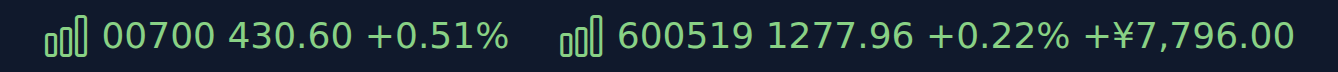
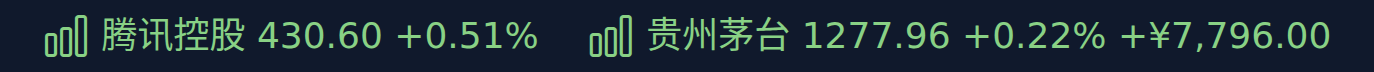
feat(statusbar): label the item with the instrument name

Changed region(s): [[0.0306, 0.1944, 0.9806, 0.8056]]

diff --git a/src/test/format.test.ts b/src/test/format.test.ts
@@ -62,8 +62,14 @@ describe('directionOf', () => {
 });
 
 describe('statusBarText', () => {
-  test('shows code, price and change percent', () => {
+  test('falls back to the code when the quote carries no name', () => {
     expect(statusBarText({ instrument, quote: quote() })).toBe('$(graph) 600519 1277.96 +0.22%');
+  });
+
+  test('shows the provider name instead of the code', () => {
+    expect(statusBarText({ instrument, quote: quote({ name: '贵州茅台' }) })).toBe(
+      '$(graph) 贵州茅台 1277.96 +0.22%',
+    );
   });
 
   test('marks stale quotes with a warning icon', () => {
@@ -85,6 +91,7 @@ describe('statusBarText', () => {
 
     expect(statusBarText({ instrument, quote: halted })).toBe('$(graph) 600519 -- Halted');
     expect(statusBarText({ instrument, quote: halted, labels: { halted: '停牌' } })).toBe('$(graph) 600519 -- 停牌');
+    expect(statusBarText({ instrument, quote: { ...halted, name: '贵州茅台' } })).toBe('$(graph) 贵州茅台 -- Halted');
   });
 });
 

diff --git a/src/format.ts b/src/format.ts
@@ -74,13 +74,15 @@ export function statusBarText(args: {
 }): string {
   const { instrument, quote, stale, profit, labels } = args;
   const icon = stale ? '$(warning)' : '$(graph)';
+  // The provider name is friendlier than the code; the code is the fallback until a quote arrives.
+  const label = quote?.name ?? instrument.code;
   if (!quote) {
-    return `${icon} ${instrument.code} --`;
+    return `${icon} ${label} --`;
   }
   if (quote.halted) {
-    return `${icon} ${instrument.code} -- ${labels?.halted ?? 'Halted'}`;
+    return `${icon} ${label} -- ${labels?.halted ?? 'Halted'}`;
   }
-  const head = `${icon} ${instrument.code} ${formatPrice(quote.price, quote.market)} ${formatChangePercent(quote.changePercent)}`;
+  const head = `${icon} ${label} ${formatPrice(quote.price, quote.market)} ${formatChangePercent(quote.changePercent)}`;
   return profit ? `${head} ${profit}` : head;
 }
 

diff --git a/test/smoke/extension.test.ts b/test/smoke/extension.test.ts
@@ -45,11 +45,15 @@ suite('CodingView in the extension host', () => {
   suiteSetup(async () => {
     await setSetting('watchlist', []);
     await setSetting('pinnedSymbol', '');
+    // Keep the suite offline and deterministic: this provider serves crypto only, so the stock
+    // symbols below never get a live quote and always render their code.
+    await setSetting('provider', 'binance-vision');
   });
 
   suiteTeardown(async () => {
     await setSetting('watchlist', []);
     await setSetting('pinnedSymbol', '');
+    await setSetting('provider', undefined);
   });
 
   test('activates', async () => {

diff --git a/src/statusBar.ts b/src/statusBar.ts
@@ -284,7 +284,7 @@ export class StatusBarController implements vscode.Disposable {
       const quote = this.quotes.get(instrument.id);
       return {
         id: instrument.id,
-        name: quote?.name ?? '',
+        name: quote?.name ?? (quote ? instrument.code : ''),
         price: quotePrice(quote),
         change: quote?.halted ? vscode.l10n.t('Halted') : formatChangePercent(quote?.changePercent),
         profit: quote ? this.profitText(quote, this.holdings.get(instrument.id), true) : undefined,

diff --git a/src/test/providers.binanceVision.test.ts b/src/test/providers.binanceVision.test.ts
@@ -32,6 +32,7 @@ describe('parseBinanceVisionResponse', () => {
         id: 'crypto:BTCUSDT',
         market: 'crypto',
         code: 'BTCUSDT',
+        name: 'BTCUSDT',
         price: 78372.01,
         prevClose: 77202.76,
         change: 1169.25,
@@ -43,6 +44,7 @@ describe('parseBinanceVisionResponse', () => {
         id: 'crypto:ETHUSDT',
         market: 'crypto',
         code: 'ETHUSDT',
+        name: 'ETHUSDT',
         price: 2498.78,
         prevClose: 2493.35,
         change: 5.43,

diff --git a/src/providers/binanceVision.ts b/src/providers/binanceVision.ts
@@ -50,6 +50,8 @@ export function parseBinanceVisionResponse(text: string, bySymbol: Map<string, I
       id: instrument.id,
       market: instrument.market,
       code: instrument.code,
+      // Crypto pairs have no display name, so the pair itself is the name the tooltip shows.
+      name: ticker.symbol,
       price,
       prevClose: toNumber(ticker.prevClosePrice),
       change: toNumber(ticker.priceChange),

diff --git a/docs/architecture.md b/docs/architecture.md
@@ -54,15 +54,17 @@ plain Node.
   when `codingview.pinnedSymbol` parses, a second item at priority 101 that never rotates. The
   pinned symbol is fetched even when it is not in the watchlist and is removed from the rotation
   list, so it is never shown twice.
-- Text: `$(graph) 600519 1277.96 +0.22%`, `$(warning) …` when the last cycle was not clean, or
-  `$(graph) 600519 --` before the first quote. A suspended instrument renders as
-  `$(graph) 600519 -- 停牌` from `Quote.halted`, so it is not confused with an unknown code. An empty
-  watchlist shows a clickable `$(graph) Add a symbol`.
+- Text: `$(graph) 贵州茅台 1277.96 +0.22%` — the label is `Quote.name` when a quote carries one and
+  the configured code otherwise, so the item reads `$(graph) 600519 --` before the first quote and
+  `$(warning) …` when the last cycle was not clean. Crypto pairs have no display name, so Binance
+  Vision sets `name` to the pair. A suspended instrument renders as `$(graph) 贵州茅台 -- 停牌` from
+  `Quote.halted`, so it is not confused with an unknown code. An empty watchlist shows a clickable
+  `$(graph) Add a symbol`.
 - Colour: `ThemeColor('charts.green')` when the change is positive, `charts.red` when negative,
   no colour when flat or when `colorByDirection` is false.
-- Tooltip: markdown table of every symbol with price, change percent and name, the newest provider
-  timestamp, and — when relevant — a stale marker, the last error, a delayed-quote note and the
-  invalid entries with a command link to remove them.
+- Tooltip: markdown table of every symbol with price, change percent and name (the code again when a
+  quote has no name), the newest provider timestamp, and — when relevant — a stale marker, the last
+  error, a delayed-quote note and the invalid entries with a command link to remove them.
 - Rotation runs on `setInterval`. The item's command is `codingview.showList`, or
   `codingview.addSymbol` while the watchlist is empty.
 

diff --git a/docs/configuration.md b/docs/configuration.md
@@ -16,6 +16,13 @@ entry, as are `hk:700` and `hk:00700`. Invalid entries never break the extension
 logged to the output channel, listed in the status bar tooltip with their validation message and
 offered a **Remove** link that deletes that raw entry from the settings.
 
+The status bar item shows the name the provider reports for the current symbol — `cn:159605` renders
+as `中概互联网ETF广发` — and falls back to the code before the first quote arrives or when a provider
+has no name for the instrument. Crypto pairs are their own name, so `crypto:BTCUSDT` shows
+`BTCUSDT`. The canonical `market:CODE` stays in the first tooltip column and in the
+**CodingView: Show Watchlist** quick pick, which is how two instruments with similar names stay
+apart.
+
 ## Holdings
 
 An entry may be an object instead of a string to carry a position:

diff --git a/docs/release.md b/docs/release.md
@@ -60,8 +60,11 @@ uploads. Keep `CHANGELOG.md` current — it becomes the release notes.
 | `CHANGELOG.md` | Per-release notes |
 | `engines.vscode` | `^1.90.0`; raise it deliberately, it gates installation for older editors |
 
-Screenshots or a short GIF of the status bar are still missing from the README and are the most
-valuable addition before a public launch.
+`media/statusbar.png` and `media/rotation.gif` are captured from a real window with
+`npm run media` (see the script's header for the VS Code binary it needs), and the Marketplace page
+renders them from the packaged `.vsix` because both files are part of the package. Re-run the script
+after a rendering change: a host without a CJK font draws the Chinese instrument names as boxes,
+which is how the first attempt looked.
 
 ## Verification checklist
 

diff --git a/docs/testing.md b/docs/testing.md
@@ -64,6 +64,11 @@ suite asserts:
 It is the only gate that needs a graphical session, so CI runs it under `xvfb-run`. Colours, rotation
 feel and the command flows still deserve the manual pass below.
 
+The suite pins `codingview.provider` to `binance-vision` for its duration: that provider only serves
+crypto, so the stock symbols it uses never pick up a live quote and the rendered text stays
+deterministic (the item shows the code, not a provider name). Live rendering is covered by
+`npm run verify:live` and the unit tests instead.
+
 ## Manual checklist
 
 1. `F5` with an empty `codingview.watchlist` → the item reads `Add a symbol` and opens the input box.

diff --git a/README.md b/README.md
@@ -6,7 +6,8 @@ without leaving the editor.
 ![Two CodingView items in the status bar: a pinned Hong Kong quote and the rotating A-share with its profit](media/statusbar.png)
 
 *Captured from a development build: `hk:00700` is pinned, `cn:600519` rotates in with its profit and
-loss because the entry carries a quantity and a cost.*
+loss because the entry carries a quantity and a cost. Each item shows the provider's name for the
+symbol rather than its code.*
 
 ![The rotating item switching between two symbols](media/rotation.gif)
 

diff --git a/docs/data-sources.md b/docs/data-sources.md
@@ -106,6 +106,9 @@ arrive as an object such as `{"code":-1121,"msg":"Invalid symbol."}` and are rai
 derived from the quote-asset suffix of the pair (`USDT`, `USDC`, `FDUSD`, `TUSD`, `BTC`, `ETH`,
 `BNB`, `EUR`, `TRY`).
 
+Crypto pairs have no display name, so the parser also sets `name` to the pair (`BTCUSDT`); the status
+bar and the tooltip then show something meaningful instead of an empty name column.
+
 ## Finnhub
 
 US quotes only, and only when the user stored a key with **CodingView: Set API Key**. The key lives
